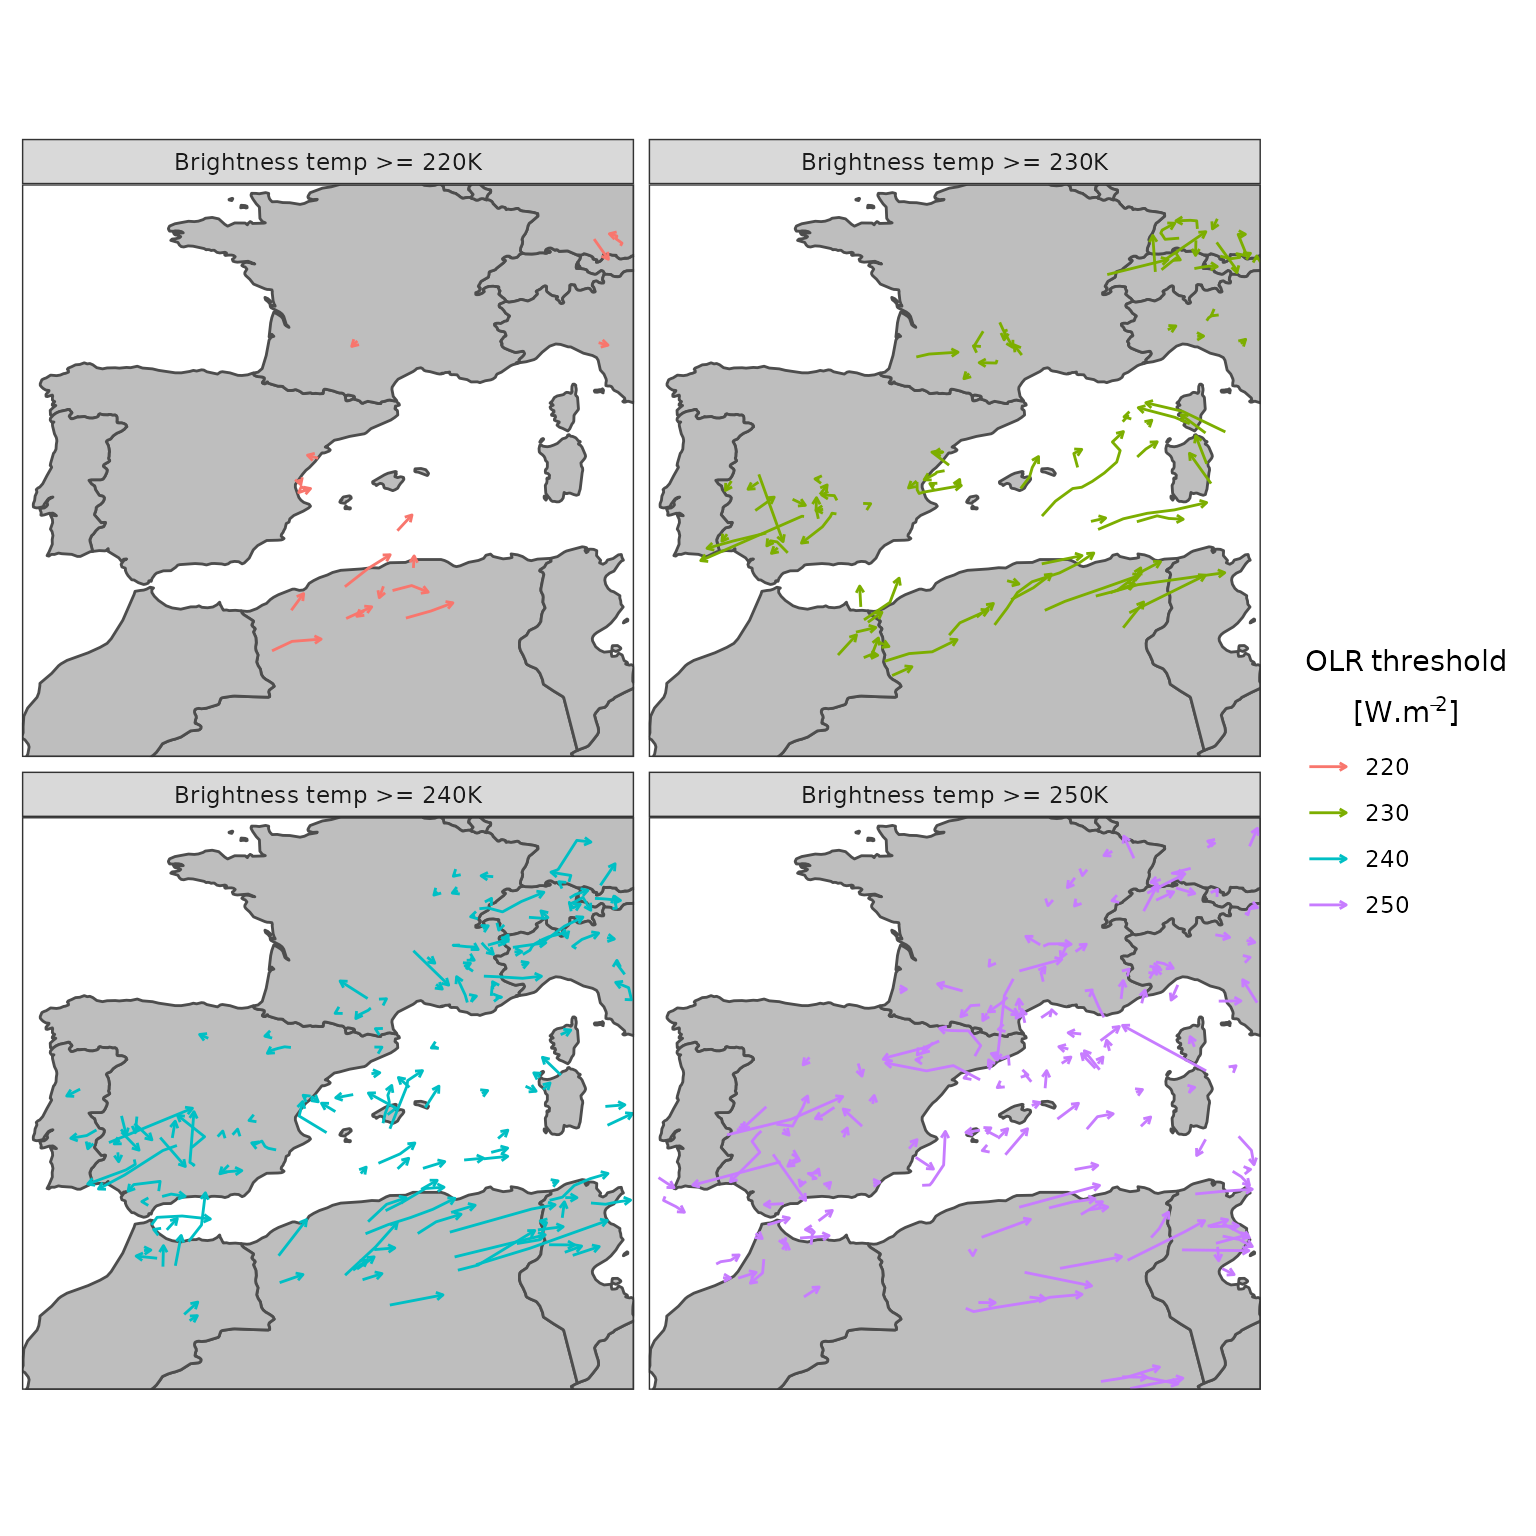
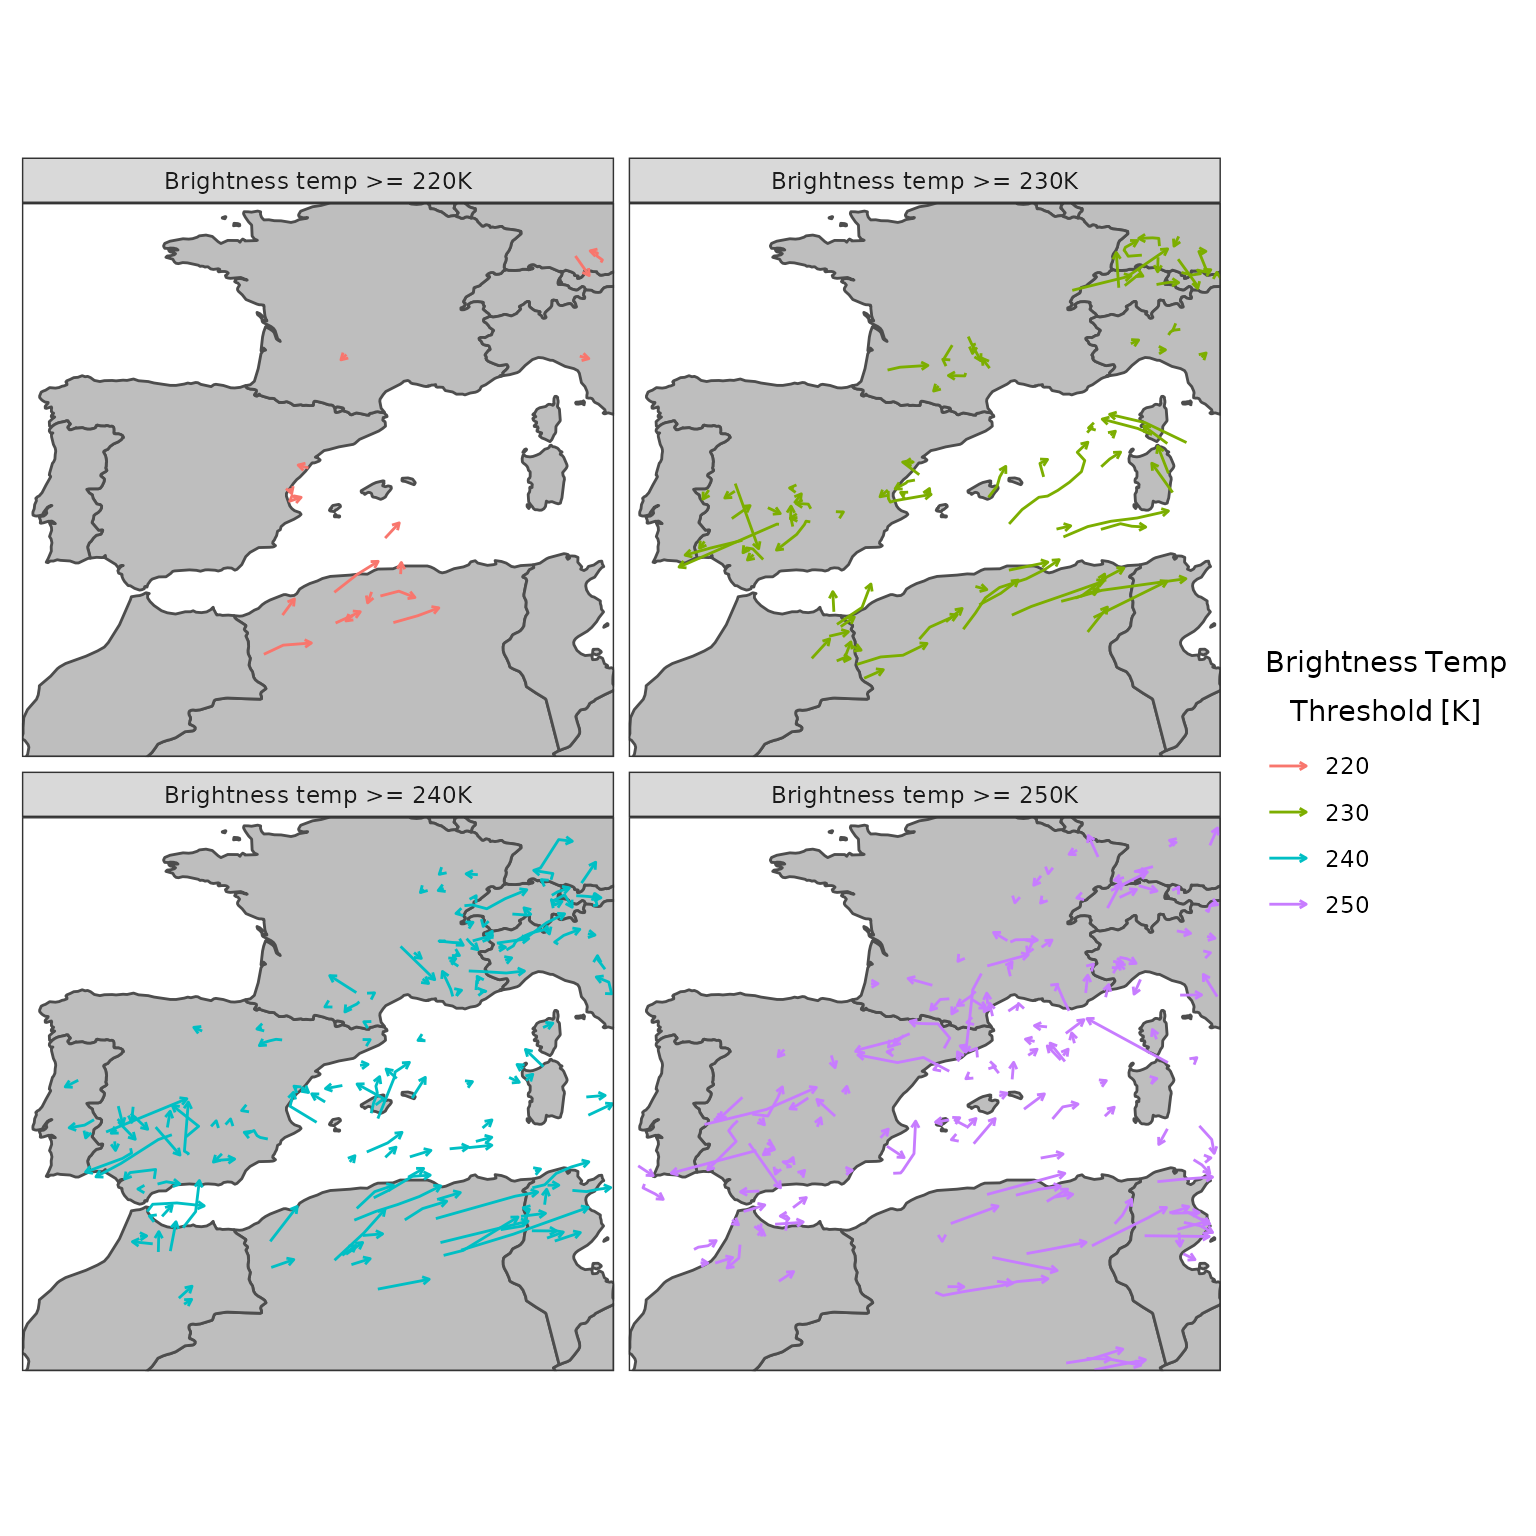
Rebuild article with correct legend

Changed region(s): [[0.0, 0.0625, 0.9688, 0.9062], [0.3125, 0.4062, 0.3438, 0.4375], [0.0312, 0.4062, 0.0625, 0.4375]]

diff --git a/docs/articles/tracking_seviri_brightness_temp.html b/docs/articles/tracking_seviri_brightness_temp.html
@@ -270,7 +270,7 @@ thresholds of 250, 240, 230 and 220 K.</p>
 <span>    arrow <span class="op">=</span> <span class="fu"><a href="https://rdrr.io/r/grid/arrow.html" class="external-link">arrow</a></span><span class="op">(</span>type <span class="op">=</span> <span class="st">"open"</span>, angle <span class="op">=</span> <span class="fl">30</span>, length <span class="op">=</span> <span class="fu"><a href="https://rdrr.io/r/grid/unit.html" class="external-link">unit</a></span><span class="op">(</span><span class="fl">0.1</span>, <span class="st">"cm"</span><span class="op">)</span><span class="op">)</span></span>
 <span>  <span class="op">)</span> <span class="op">+</span></span>
 <span>  <span class="fu"><a href="https://ggplot2.tidyverse.org/reference/facet_wrap.html" class="external-link">facet_wrap</a></span><span class="op">(</span><span class="op">~</span><span class="fu"><a href="https://rdrr.io/r/base/paste.html" class="external-link">paste0</a></span><span class="op">(</span><span class="st">"Brightness temp &gt;= "</span>, <span class="va">threshold_value</span>, <span class="st">"K"</span><span class="op">)</span><span class="op">)</span> <span class="op">+</span></span>
-<span>  <span class="fu"><a href="https://ggplot2.tidyverse.org/reference/labs.html" class="external-link">labs</a></span><span class="op">(</span>colour <span class="op">=</span> <span class="fu"><a href="https://rdrr.io/r/base/bquote.html" class="external-link">bquote</a></span><span class="op">(</span><span class="fu">atop</span><span class="op">(</span><span class="va">OLR</span><span class="op">~</span><span class="va">threshold</span>, <span class="st">"["</span><span class="op">*</span><span class="va">W.m</span><span class="op">^</span><span class="op">{</span><span class="op">-</span><span class="fl">2</span><span class="op">}</span><span class="op">*</span><span class="st">"]"</span><span class="op">)</span><span class="op">)</span><span class="op">)</span> <span class="op">+</span></span>
+<span>  <span class="fu"><a href="https://ggplot2.tidyverse.org/reference/labs.html" class="external-link">labs</a></span><span class="op">(</span>colour <span class="op">=</span> <span class="fu"><a href="https://rdrr.io/r/base/bquote.html" class="external-link">bquote</a></span><span class="op">(</span><span class="fu">atop</span><span class="op">(</span><span class="va">Brightness</span><span class="op">~</span><span class="va">Temp</span>, <span class="va">Threshold</span><span class="op">~</span><span class="st">"["</span><span class="op">*</span><span class="va">K</span><span class="op">*</span><span class="st">"]"</span><span class="op">)</span><span class="op">)</span><span class="op">)</span> <span class="op">+</span></span>
 <span>  <span class="fu"><a href="https://ggplot2.tidyverse.org/reference/coord_fixed.html" class="external-link">coord_equal</a></span><span class="op">(</span>expand <span class="op">=</span> <span class="cn">FALSE</span><span class="op">)</span> <span class="op">+</span> </span>
 <span>  <span class="fu">theme_harp_map</span><span class="op">(</span><span class="op">)</span></span></code></pre></div>
 <p><img src="tracking_seviri_brightness_temp_files/figure-html/plot-tracks-1.png" width="768" style="display: block; margin: auto;"></p>
